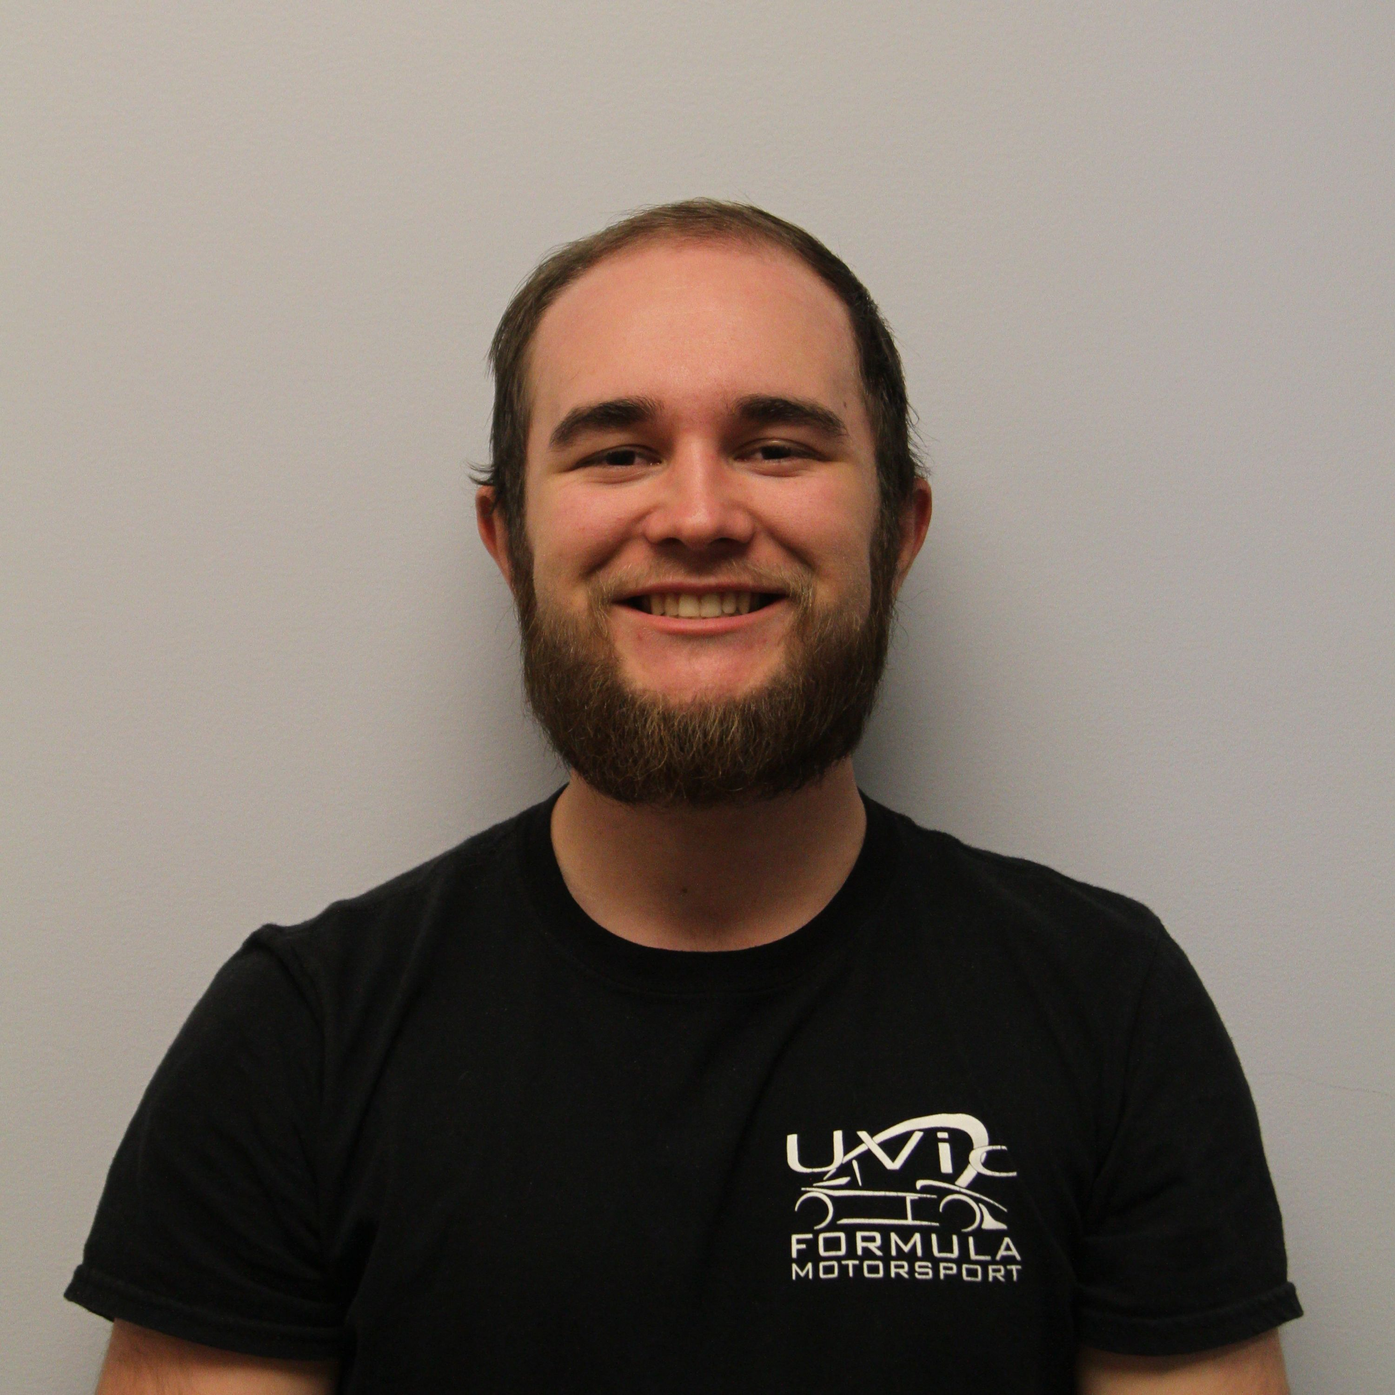
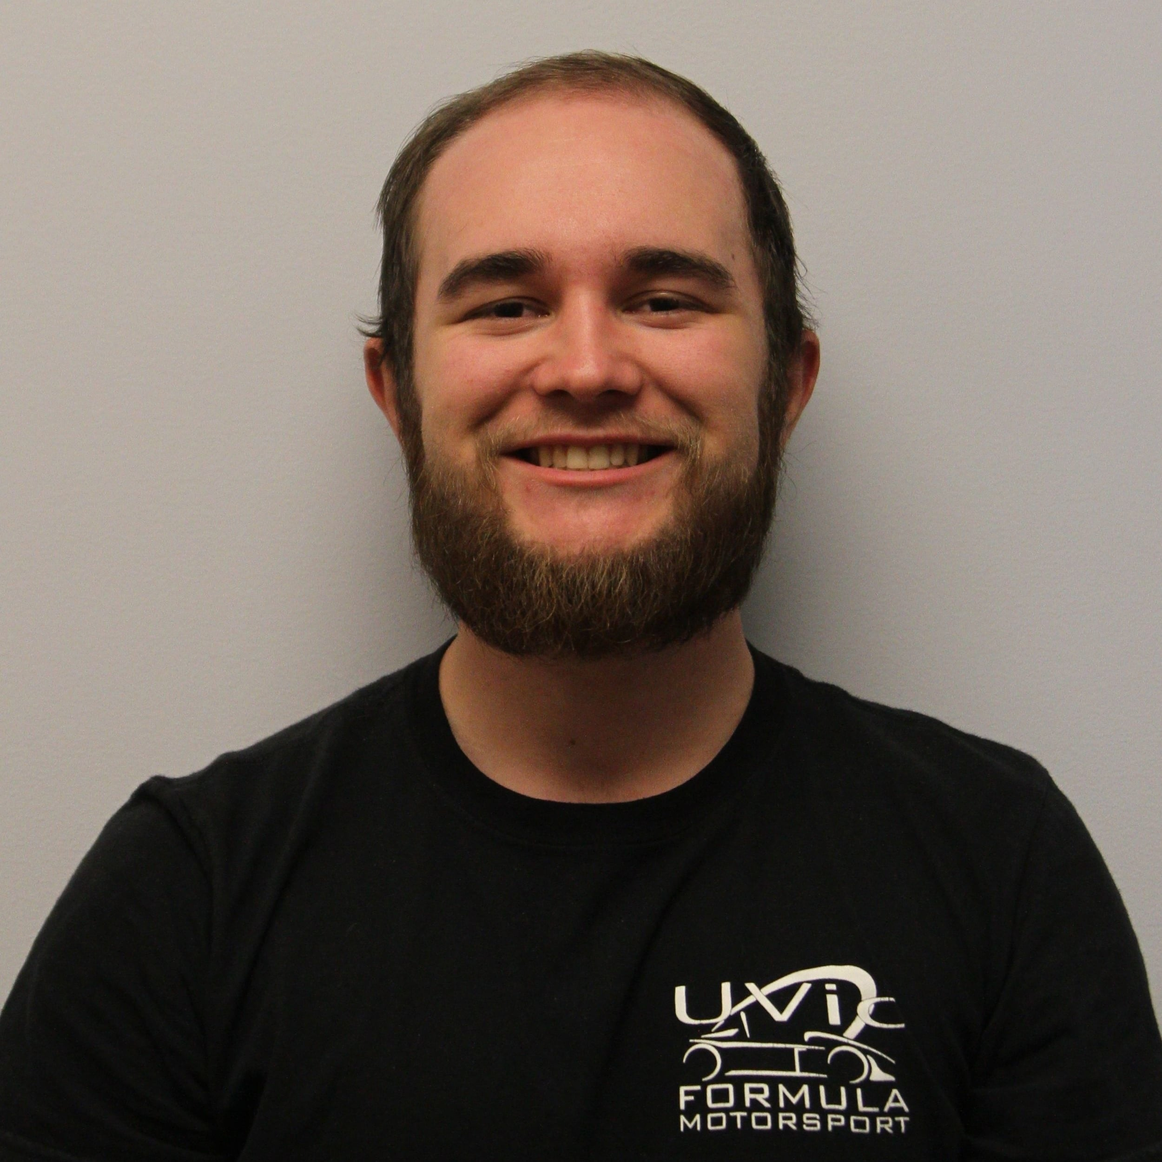
Try this update

Changed region(s): [[0.0, 0.0312, 1.0, 1.0]]

diff --git a/_site/team/index.html b/_site/team/index.html
@@ -13,4 +13,4 @@ Throughout the year, the team puts thousands of hours into the development of th
 members expand their knowledge far beyond what is achieved during a Bachelor's degree alone.  Team members
 gain valuable experience with practical applications of engineering theory, business and relations, hands-on design,
 and manufacturing.<br></p></div><!--  p--><!--    | The Formula Motorsport team is made up of leads for different design elements, along with many other students--><!--    | who operate--><!--    | outside the curriculum and outside the classroom, striving to acquire applicable lessons in--><!--    | engineering theory, business and relations, hands-on-design, and manufacturing.--><!--    br-->
-</div></div><br><div class="container marketing"><div class="row"><!-- First row--><div class="col-md-6 col-lg-4 teambox"><img src="/img/team-2020/noimg.jpg" alt="Blake Sigwin" width="280" height="280" class="img-circle teampic"><h2>Blake Sigwin</h2><h4><strong>Team Principal</strong></h4><hr style="margin-top:0;margin-bottom:0;"><p>Administration<br>Sponsorship Coordinator<br>Team Direction</p></div><div class="col-md-6 col-lg-4 teambox"><img src="/img/team-2020/Raimund.jpg" alt="Raimund Mullin" width="280" height="280" class="img-circle teampic"><h2>Raimund Mullin</h2><h4><strong>Project Manager</strong></h4><hr style="margin-top:0;margin-bottom:0;"><p>Project Management<br>Team Coordination<br>Budget Management</p></div><div class="col-md-6 col-lg-4 teambox"><img src="/img/team-2020/noimg.jpg" alt="Josiah Macleod" width="280" height="280" class="img-circle teampic"><h2>Josiah Macleod</h2><h4><strong>Chief Engineer</strong></h4><hr style="margin-top:0;margin-bottom:0;"><p>System Integration<br>Design Review Coordination<br>Standards Development<br></p><div class="container marketing"><div class="row"></div><!-- Second Row--></div></div><div class="col-md-6 col-lg-4 teambox"><img src="/img/team-2020/noimg.jpg" alt="Peter Touchinski" width="280" height="280" class="img-circle teampic"><h2>Peter Touchinski</h2><h4><strong>Drivetrain Lead</strong></h4><hr style="margin-top:0;margin-bottom:0;"><p>Engine Parts Design<br>Engine Tuning<br>Launch and Traction Control Calibration</p></div><div class="col-md-6 col-lg-4 teambox"><img src="/img/team-2020/Mike.jpg" alt="Mike Mckee" width="280" height="280" class="img-circle teampic"><h2>Mike Mckee</h2><h4><strong>Drivetrain Lead</strong></h4><hr style="margin-top:0;margin-bottom:0;"><p>Transmission Design<br>Shifting System<br>Differential and Axel Design</p></div><div class="col-md-6 col-lg-4 teambox"><img src="/img/team-2020/Nigel.jpg" alt="Nigel Swab" width="280" height="280" class="img-circle teampic"><h2>Nigel Swab</h2><h4><strong>Vehicle Dynamics Lead</strong></h4><hr style="margin-top:0;margin-bottom:0;"><p>Vehicle Dynamics Simulation<br>Tire Modelling<br>Data Analysis<br></p><div class="container marketing"><div class="row"></div><!-- Third--></div></div><div class="col-md-6 col-lg-4 teambox"><img src="/img/team-2020/Matthew.jpg" alt="Matthew Peters" width="280" height="280" class="img-circle teampic"><h2>Matthew Peters</h2><h4><strong>Electrical Lead</strong></h4><hr style="margin-top:0;margin-bottom:0;"><p>Wiring Loom Manufacturing<br>PCB Design<br>Sensor Selection</p></div><div class="col-md-6 col-lg-4 teambox"><img src="/img/team-2020/noimg.jpg" alt="Alec MacMillan" width="280" height="280" class="img-circle teampic"><h2>Alec MacMillan</h2><h4><strong>Suspension and Brakes Lead</strong></h4><hr style="margin-top:0;margin-bottom:0;"><p>Suspension Design<br>Brake Design<br>Suspension Manufacturing</p></div><div class="col-md-6 col-lg-4 teambox"><img src="/img/team-2020/noimg.jpg" alt="Lewis Janzen" width="280" height="280" class="img-circle teampic"><h2>Unfilled</h2><h4><strong>Frame Lead</strong></h4><hr style="margin-top:0;margin-bottom:0;"><p>Chassis Design<br>Fabrication<br>System Integration<br></p><div class="container marketing"><div class="row"></div><!-- Fourth      --></div></div><div class="col-md-6 col-lg-4 teambox"><img src="/img/team-2020/Axel.jpg" alt="Axel Endongo" width="280" height="280" class="img-circle teampic"><h2>Axel Endongo</h2><h4><strong>Aerodynamics Lead</strong></h4><hr style="margin-top:0;margin-bottom:0;"><p>Composites<br>Composites Manufacturing<br>Mold Design</p></div><div class="col-md-6 col-lg-4 teambox"><img src="/img/team-2020/David.jpg" alt="David Kania" width="280" height="280" class="img-circle teampic"><h2>David Kania</h2><h4><strong>Aerodynamics Lead</strong></h4><hr style="margin-top:0;margin-bottom:0;"><p>Vechicle Aerodynamics<br>Composites Manufacturing<br>Aesthetics</p></div><div class="col-md-6 col-lg-4 teambox"><img src="/img/team-2020/noimg.jpg" alt="Alec MacMillan" width="280" height="280" class="img-circle teampic"><h2>Duncan Wallace</h2><h4><strong>Ergonomics Lead</strong></h4><hr style="margin-top:0;margin-bottom:0;"><p>Driver Ergonomics<br>Steering Wheel Design<br>Pedal Box Design</p></div></div></div><hr><div class="container-fluid marketing"><div class="row"><div class="col-lg-4"><a href="http://www.crp-usa.net/" target="_blank"><img src="/img/sponsors/crpusa_med.jpg" alt="CRP 3D Printing" height="75" class="img-rounded pic-align"></a></div><div class="col-lg-4"><a href="http://engineersmachineshop.ca" target="_blank"><img src="/img/sponsors/Rainhouse_lg.png" alt="Prototype Equipment Design" width="350" height="75" class="img-rounded pic-align"></a></div><div class="col-lg-4"><a href="http://eaglemachine.ca/" target="_blank"><img src="/img/sponsors/eaglemach_lg.jpg" alt="Eagle Machine" height="75" class="img-rounded pic-align"></a></div></div></div></body><hr><!-- FOOTER--><div class="container-fluid"><footer style="padding:0px 30px"><div class="row"><div class="col-xs-6"><p style="align: left; margin-left: 0; margin-right: auto; font-size:20px;">© 2016 UVic Formula Motorsport. All Rights Reserved</p></div><div class="col-xs-6 social-icons"><a href="https://www.flickr.com/photos/uvicfsae/albums/" target="_blank"><img src="/img/icons/Flickr-color-lg.png"></a><a href="https://www.youtube.com/channel/UCZs6NRtl950DlijfmLDGZ0Q" target="_blank"><img src="/img/icons/Youtube-color.png"></a><a href="https://twitter.com/uvicfsae" target="_blank"><img src="/img/icons/Twitter-color-lg.png"></a><a href="https://www.facebook.com/UVicFSae/" target="_blank"><img src="/img/icons/Facebook-color-lg.png"></a></div></div></footer></div></html>
+</div></div><br><div class="container marketing"><div class="row"><!-- First row--><div class="col-md-6 col-lg-4 teambox"><img src="/img/team-2020/Blake.jpg" alt="image not found" width="280" height="280" class="img-circle teampic"><h2>Blake Sigwin</h2><h4><strong>Team Principal</strong></h4><hr style="margin-top:0;margin-bottom:0;"><p>Administration<br>Sponsorship Coordinator<br>Team Direction</p></div><div class="col-md-6 col-lg-4 teambox"><img src="/img/team-2020/Raimund.jpg" alt="image not found" width="280" height="280" class="img-circle teampic"><h2>Raimund Mullin</h2><h4><strong>Project Manager</strong></h4><hr style="margin-top:0;margin-bottom:0;"><p>Project Management<br>Team Coordination<br>Budget Management</p></div><div class="col-md-6 col-lg-4 teambox"><img src="/img/team-2020/noimg.jpg" alt="image not found" width="280" height="280" class="img-circle teampic"><h2>Josiah Macleod</h2><h4><strong>Chief Engineer</strong></h4><hr style="margin-top:0;margin-bottom:0;"><p>System Integration<br>Design Review Coordination<br>Standards Development<br></p><div class="container marketing"><div class="row"></div><!-- Second Row--></div></div><div class="col-md-6 col-lg-4 teambox"><img src="/img/team-2020/noimg.jpg" alt="image not found" width="280" height="280" class="img-circle teampic"><h2>Peter Touchinski</h2><h4><strong>Drivetrain Lead</strong></h4><hr style="margin-top:0;margin-bottom:0;"><p>Engine Parts Design<br>Engine Tuning<br>Launch and Traction Control Calibration</p></div><div class="col-md-6 col-lg-4 teambox"><img src="/img/team-2020/Mike.jpg" alt="image not found" width="280" height="280" class="img-circle teampic"><h2>Mike Mckee</h2><h4><strong>Drivetrain Lead</strong></h4><hr style="margin-top:0;margin-bottom:0;"><p>Transmission Design<br>Shifting System<br>Differential and Axel Design</p></div><div class="col-md-6 col-lg-4 teambox"><img src="/img/team-2020/Nigel.jpg" alt="image not found" width="280" height="280" class="img-circle teampic"><h2>Nigel Swab</h2><h4><strong>Vehicle Dynamics Lead</strong></h4><hr style="margin-top:0;margin-bottom:0;"><p>Vehicle Dynamics Simulation<br>Tire Modelling<br>Data Analysis<br></p><div class="container marketing"><div class="row"></div><!-- Third--></div></div><div class="col-md-6 col-lg-4 teambox"><img src="/img/team-2020/Matthew.jpg" alt="image not found" width="280" height="280" class="img-circle teampic"><h2>Matthew Peters</h2><h4><strong>Electrical Lead</strong></h4><hr style="margin-top:0;margin-bottom:0;"><p>Wiring Loom Manufacturing<br>PCB Design<br>Sensor Selection</p></div><div class="col-md-6 col-lg-4 teambox"><img src="/img/team-2020/Alec.jpg" alt="image not found" width="280" height="280" class="img-circle teampic"><h2>Alec MacMillan</h2><h4><strong>Suspension and Brakes Lead</strong></h4><hr style="margin-top:0;margin-bottom:0;"><p>Suspension Design<br>Brake Design<br>Suspension Manufacturing</p></div><div class="col-md-6 col-lg-4 teambox"><img src="/img/team-2020/noimg.jpg" alt="image not found" width="280" height="280" class="img-circle teampic"><h2>Unfilled</h2><h4><strong>Frame Lead</strong></h4><hr style="margin-top:0;margin-bottom:0;"><p>Chassis Design<br>Fabrication<br>System Integration<br></p><div class="container marketing"><div class="row"></div><!-- Fourth--></div></div><div class="col-md-6 col-lg-4 teambox"><img src="/img/team-2020/Axel.jpg" alt="image not found" width="280" height="280" class="img-circle teampic"><h2>Axel Endongo</h2><h4><strong>Aerodynamics Lead</strong></h4><hr style="margin-top:0;margin-bottom:0;"><p>Composites<br>Composites Manufacturing<br>Mold Design</p></div><div class="col-md-6 col-lg-4 teambox"><img src="/img/team-2020/David.jpg" alt="image not found" width="280" height="280" class="img-circle teampic"><h2>David Kania</h2><h4><strong>Aerodynamics Lead</strong></h4><hr style="margin-top:0;margin-bottom:0;"><p>Vechicle Aerodynamics<br>Composites Manufacturing<br>Aesthetics</p></div><div class="col-md-6 col-lg-4 teambox"><img src="/img/team-2020/noimg.jpg" alt="image not found" width="280" height="280" class="img-circle teampic"><h2>Duncan Wallace</h2><h4><strong>Ergonomics Lead</strong></h4><hr style="margin-top:0;margin-bottom:0;"><p>Driver Ergonomics<br>Steering Wheel Design<br>Pedal Box Design</p></div></div></div><hr><div class="container-fluid marketing"><div class="row"><div class="col-lg-4"><a href="http://www.crp-usa.net/" target="_blank"><img src="/img/sponsors/crpusa_med.jpg" alt="CRP 3D Printing" height="75" class="img-rounded pic-align"></a></div><div class="col-lg-4"><a href="http://engineersmachineshop.ca" target="_blank"><img src="/img/sponsors/Rainhouse_lg.png" alt="Prototype Equipment Design" width="350" height="75" class="img-rounded pic-align"></a></div><div class="col-lg-4"><a href="http://eaglemachine.ca/" target="_blank"><img src="/img/sponsors/eaglemach_lg.jpg" alt="Eagle Machine" height="75" class="img-rounded pic-align"></a></div></div></div></body><hr><!-- FOOTER--><div class="container-fluid"><footer style="padding:0px 30px"><div class="row"><div class="col-xs-6"><p style="align: left; margin-left: 0; margin-right: auto; font-size:20px;">© 2016 UVic Formula Motorsport. All Rights Reserved</p></div><div class="col-xs-6 social-icons"><a href="https://www.flickr.com/photos/uvicfsae/albums/" target="_blank"><img src="/img/icons/Flickr-color-lg.png"></a><a href="https://www.youtube.com/channel/UCZs6NRtl950DlijfmLDGZ0Q" target="_blank"><img src="/img/icons/Youtube-color.png"></a><a href="https://twitter.com/uvicfsae" target="_blank"><img src="/img/icons/Twitter-color-lg.png"></a><a href="https://www.facebook.com/UVicFSae/" target="_blank"><img src="/img/icons/Facebook-color-lg.png"></a></div></div></footer></div></html>

diff --git a/_site/index.html b/_site/index.html
@@ -6,4 +6,4 @@
   js.src = "//connect.facebook.net/en_US/sdk.js#xfbml=1&version=v2.4";
   fjs.parentNode.insertBefore(js, fjs);
 }(document, 'script', 'facebook-jssdk'));
-</script></div><header></header><div class="nav-wrapper"><nav class="navbar navbar-default navbar-fixed-top"><div class="container-fluid"><div class="navbar-header"><button type="button" data-toggle="collapse" data-target="#myNavbar" class="navbar-toggle"><span class="icon-bar"></span><span class="icon-bar"></span><span class="icon-bar"></span></button><a href="/" style="margin-bottom:0px;"><img src="/img/logo.png" height="55px"></a></div><div><div id="myNavbar" class="collapse navbar-collapse"><ul class="nav navbar-nav navbar-right"><li class="front-page active"><a href="/">Home</a></li><li class="front-page"><a href="/team/">The Team</a></li><li class="front-page"><a href="/car2019/">The Car</a></li><li class="front-page"><a href="/competition/">The Competition</a></li><li class="front-page"><a href="/sponsors/">Sponsorship</a></li><li class="front-page"><a href="/contact/">Contact</a></li></ul></div></div></div></nav></div><!--Carousel--><!--====================================================================================================================--><div id="myCarousel" data-ride="carousel" data-interval="8000" style="margin-bottom:0px; margin-top:0px; height:50%; padding: 0px -15px;" class="carousel slide"><ol class="carousel-indicators"><li data-target="#myCarousel" data-slide-to="0" class="active"></li><li data-target="#myCarousel" data-slide-to="1"></li><li data-target="#myCarousel" data-slide-to="2"></li><li data-target="#myCarousel" data-slide-to="3"></li><li data-target="#myCarousel" data-slide-to="4"></li><li data-target="#myCarousel" data-slide-to="5"></li></ol><div role="listbox" class="carousel-inner"><div class="item uvic-carousel active"><img src="/img/Front_Page_Photos/comp2019.jpg" alt="First slide" style="object-fit: cover; height: 800px;" class="first-slide"></div><div class="item uvic-carousel"><img src="/img/Front_Page_Photos/corner.jpg" alt="Second slide" style="object-fit:cover; height: 800px;" class="first-slide"></div><div class="item uvic-carousel"><img src="/img/Front_Page_Photos/diff.jpg" alt="Third slide" style="object-fit:cover; height: 800px;" class="first-slide"></div><div class="item uvic-carousel"><img src="/img/Front_Page_Photos/UV19back.jpg" alt="Forth slide" style="object-fit:cover; height: 800px;" class="first-slide"></div><div class="item uvic-carousel"><img src="img/Front_Page_Photos/build2019.jpg" alt="Fifth slide" style="object-fit:cover; height: 800px;" class="first-slide"></div><div class="item uvic-carousel"><img src="img/Front_Page_Photos/driver.jpg" alt="Sixth slide" style="object-fit:cover; height: 800px;" class="first-slide"></div></div><a href="#myCarousel" role="button" data-slide="prev" class="left carousel-control"><span aria-hidden="true" class="glyphicon glyphicon-chevron-left"></span><span class="sr-only">Previous</span></a><a href="#myCarousel" role="button" data-slide="next" class="right carousel-control"><span aria-hidden="true" class="glyphicon glyphicon-chevron-right"></span><span class="sr-only">Next</span></a></div><!--Index Text--><!--====================================================================================================================--><div class="container-fluid"><div class="row"><div class="col-xs-2"></div><div class="col-lg-4"><div class="row"><div class="col-lg-12"><a href="https://extrweb.uvic.ca/donation-forms/FSAE" target="_blank" class="darken"><img src="/img/contributenow.jpg" height="400" style="width: 100%; margin: 30px 0 0 0;" class="img-responsive"><h3 class="overtext">Contribute Now</h3></a></div></div><div class="row"><div class="col-lg-12"><a href="/competition/" class="darken"><img src="/img/Speedway_autocross/autoCross1.jpg" height="400" style="width: 100%; margin: 30px 0 0 0;" class="img-responsive"><h3 class="overtext">What We Do</h3></a></div></div><div class="row"><div class="col-lg-12"><a href="/team/" class="darken"><img src="/img/supportus.jpg" height="400" style="width: 100%; margin: 30px 0 0 0;" class="img-responsive"><h3 class="overtext">Our Team</h3></a></div></div></div><div class="col-lg-4"><!-- Facebook Feed--><div data-href="https://www.facebook.com/UVicFSae/" data-tabs="timeline" data-small-header="false" data-adapt-container-width="true" data-hide-cover="false" data-show-facepile="true" data-height="835" data-width="500" style="display:block; margin: 30px auto;" class="fb-page"><blockquote cite="https://www.facebook.com/UVicFSae/" class="fb-xfbml-parse-ignore"><a href="https://www.facebook.com/UVicFSae/">UVic Formula Motorsport</a></blockquote></div></div><div class="col-xs-2"></div></div></div><hr><div class="container-fluid marketing"><div class="row"><div class="col-lg-4"><a href="http://www.crp-usa.net/" target="_blank"><img src="/img/sponsors/crpusa_med.jpg" alt="CRP 3D Printing" height="75" class="img-rounded pic-align"></a></div><div class="col-lg-4"><a href="http://engineersmachineshop.ca" target="_blank"><img src="/img/sponsors/Rainhouse_lg.png" alt="Prototype Equipment Design" width="350" height="75" class="img-rounded pic-align"></a></div><div class="col-lg-4"><a href="http://eaglemachine.ca/" target="_blank"><img src="/img/sponsors/eaglemach_lg.jpg" alt="Eagle Machine" height="75" class="img-rounded pic-align"></a></div></div></div></body><hr><!-- FOOTER--><div class="container-fluid"><footer style="padding:0px 30px"><div class="row"><div class="col-xs-6"><p style="align: left; margin-left: 0; margin-right: auto; font-size:20px;">© 2016 UVic Formula Motorsport. All Rights Reserved</p></div><div class="col-xs-6 social-icons"><a href="https://www.flickr.com/photos/uvicfsae/albums/" target="_blank"><img src="/img/icons/Flickr-color-lg.png"></a><a href="https://www.youtube.com/channel/UCZs6NRtl950DlijfmLDGZ0Q" target="_blank"><img src="/img/icons/Youtube-color.png"></a><a href="https://twitter.com/uvicfsae" target="_blank"><img src="/img/icons/Twitter-color-lg.png"></a><a href="https://www.facebook.com/UVicFSae/" target="_blank"><img src="/img/icons/Facebook-color-lg.png"></a></div></div></footer></div></html>
+</script></div><header></header><div class="nav-wrapper"><nav class="navbar navbar-default navbar-fixed-top"><div class="container-fluid"><div class="navbar-header"><button type="button" data-toggle="collapse" data-target="#myNavbar" class="navbar-toggle"><span class="icon-bar"></span><span class="icon-bar"></span><span class="icon-bar"></span></button><a href="/" style="margin-bottom:0px;"><img src="/img/logo.png" height="55px"></a></div><div><div id="myNavbar" class="collapse navbar-collapse"><ul class="nav navbar-nav navbar-right"><li class="front-page active"><a href="/">Home</a></li><li class="front-page"><a href="/team/">The Team</a></li><li class="front-page"><a href="/car2019/">The Car</a></li><li class="front-page"><a href="/competition/">The Competition</a></li><li class="front-page"><a href="/sponsors/">Sponsorship</a></li><li class="front-page"><a href="/contact/">Contact</a></li></ul></div></div></div></nav></div><!--Carousel--><!--====================================================================================================================--><div id="myCarousel" data-ride="carousel" data-interval="8000" style="margin-bottom:0px; margin-top:0px; height:50%; padding: 0px -15px;" class="carousel slide"><ol class="carousel-indicators"><li data-target="#myCarousel" data-slide-to="0" class="active"></li><li data-target="#myCarousel" data-slide-to="1"></li><li data-target="#myCarousel" data-slide-to="2"></li><li data-target="#myCarousel" data-slide-to="3"></li><li data-target="#myCarousel" data-slide-to="4"></li></ol><div role="listbox" class="carousel-inner"><div class="item uvic-carousel active"><img src="/img/Front_Page_Photos/comp2019.jpg" alt="First slide" style="object-fit: cover; height: 800px;" class="first-slide"></div><div class="item uvic-carousel"><img src="/img/Front_Page_Photos/corner.jpg" alt="Second slide" style="object-fit:cover; height: 800px;" class="first-slide"></div><div class="item uvic-carousel"><img src="/img/Front_Page_Photos/diff.jpg" alt="Third slide" style="object-fit:cover; height: 800px;" class="first-slide"></div><div class="item uvic-carousel"><img src="/img/Front_Page_Photos/UV19back.jpg" alt="Forth slide" style="object-fit:cover; height: 800px;" class="first-slide"></div><div class="item uvic-carousel"><img src="img/Front_Page_Photos/driver.jpg" alt="Fifth slide" style="object-fit:cover; height: 800px;" class="first-slide"></div></div><a href="#myCarousel" role="button" data-slide="prev" class="left carousel-control"><span aria-hidden="true" class="glyphicon glyphicon-chevron-left"></span><span class="sr-only">Previous</span></a><a href="#myCarousel" role="button" data-slide="next" class="right carousel-control"><span aria-hidden="true" class="glyphicon glyphicon-chevron-right"></span><span class="sr-only">Next</span></a></div><!--Index Text--><!--====================================================================================================================--><div class="container-fluid"><div class="row"><div class="col-xs-2"></div><div class="col-lg-4"><div class="row"><div class="col-lg-12"><a href="https://extrweb.uvic.ca/donation-forms/FSAE" target="_blank" class="darken"><img src="/img/contributenow.jpg" height="400" style="width: 100%; margin: 30px 0 0 0;" class="img-responsive"><h3 class="overtext">Contribute Now</h3></a></div></div><div class="row"><div class="col-lg-12"><a href="/competition/" class="darken"><img src="/img/Speedway_autocross/autoCross1.jpg" height="400" style="width: 100%; margin: 30px 0 0 0;" class="img-responsive"><h3 class="overtext">What We Do</h3></a></div></div><div class="row"><div class="col-lg-12"><a href="/team/" class="darken"><img src="/img/supportus.jpg" height="400" style="width: 100%; margin: 30px 0 0 0;" class="img-responsive"><h3 class="overtext">Our Team</h3></a></div></div></div><div class="col-lg-4"><!-- Facebook Feed--><div data-href="https://www.facebook.com/UVicFSae/" data-tabs="timeline" data-small-header="false" data-adapt-container-width="true" data-hide-cover="false" data-show-facepile="true" data-height="835" data-width="500" style="display:block; margin: 30px auto;" class="fb-page"><blockquote cite="https://www.facebook.com/UVicFSae/" class="fb-xfbml-parse-ignore"><a href="https://www.facebook.com/UVicFSae/">UVic Formula Motorsport</a></blockquote></div></div><div class="col-xs-2"></div></div></div><hr><div class="container-fluid marketing"><div class="row"><div class="col-lg-4"><a href="http://www.crp-usa.net/" target="_blank"><img src="/img/sponsors/crpusa_med.jpg" alt="CRP 3D Printing" height="75" class="img-rounded pic-align"></a></div><div class="col-lg-4"><a href="http://engineersmachineshop.ca" target="_blank"><img src="/img/sponsors/Rainhouse_lg.png" alt="Prototype Equipment Design" width="350" height="75" class="img-rounded pic-align"></a></div><div class="col-lg-4"><a href="http://eaglemachine.ca/" target="_blank"><img src="/img/sponsors/eaglemach_lg.jpg" alt="Eagle Machine" height="75" class="img-rounded pic-align"></a></div></div></div></body><hr><!-- FOOTER--><div class="container-fluid"><footer style="padding:0px 30px"><div class="row"><div class="col-xs-6"><p style="align: left; margin-left: 0; margin-right: auto; font-size:20px;">© 2016 UVic Formula Motorsport. All Rights Reserved</p></div><div class="col-xs-6 social-icons"><a href="https://www.flickr.com/photos/uvicfsae/albums/" target="_blank"><img src="/img/icons/Flickr-color-lg.png"></a><a href="https://www.youtube.com/channel/UCZs6NRtl950DlijfmLDGZ0Q" target="_blank"><img src="/img/icons/Youtube-color.png"></a><a href="https://twitter.com/uvicfsae" target="_blank"><img src="/img/icons/Twitter-color-lg.png"></a><a href="https://www.facebook.com/UVicFSae/" target="_blank"><img src="/img/icons/Facebook-color-lg.png"></a></div></div></footer></div></html>
